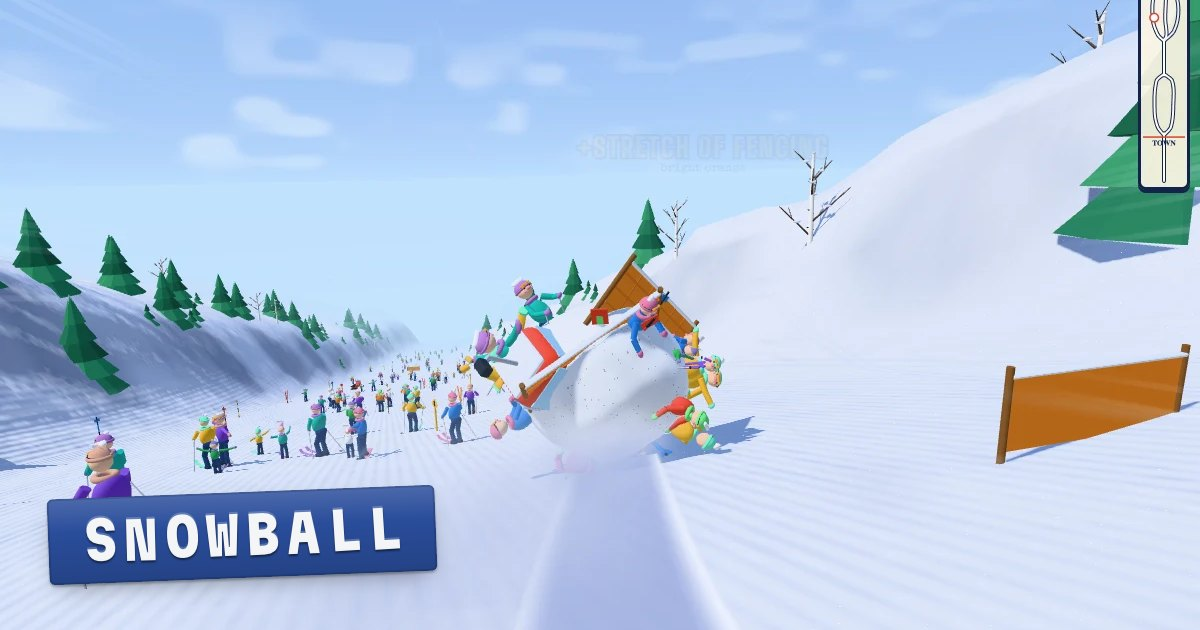
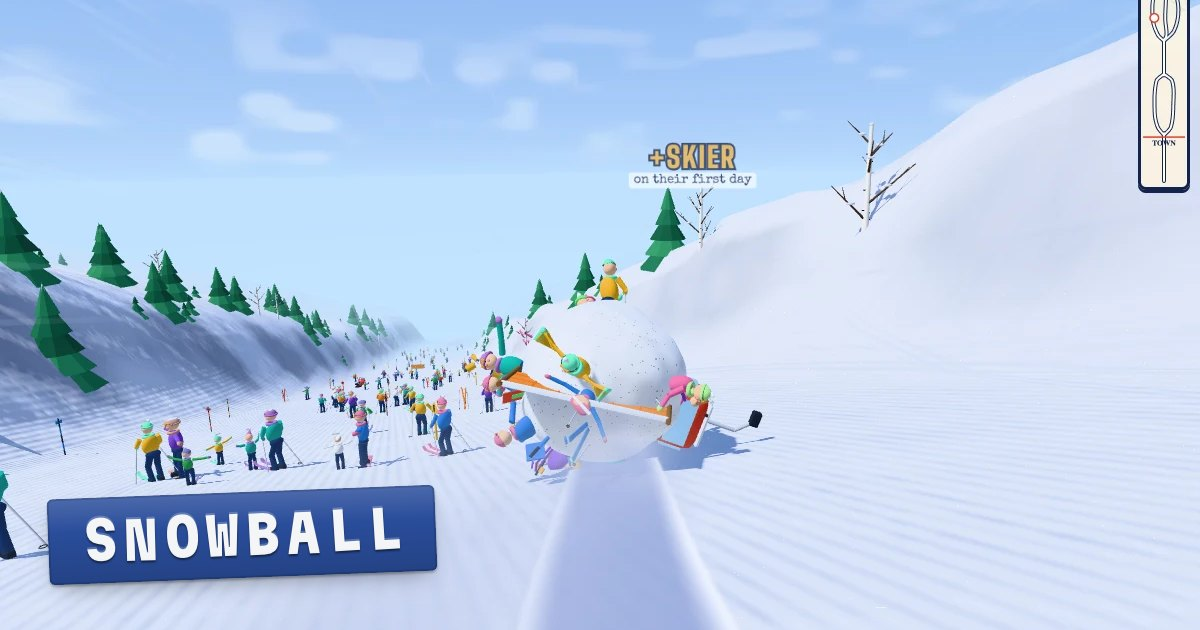
Snowball: playtest fixes, louder sound, shouting passengers and a turntable in Lost & Found
- Things stuck in the ball shout in speech bubbles; big pickups punch the zoom
- Lost & Found: tap anything you've found for a card you can spin by dragging
- Finale pickups no longer bloat the ball into a lopsided blob; town share is weighted by size
- The world freezes while paused; the mountain isn't drawn behind the trail map
- Sound unlocks on iPhone (touchend/click) and starts the band mid-run; louder mix
- Fewer, softer pickup puffs; smaller banners and signs on landscape phones

diff --git a/snowball/main.js b/snowball/main.js
@@ -5,7 +5,7 @@
 // ?fresh (ignore the saved game)
 import { MOUNTAINS, buildCourse } from './course.js';
 import { Run } from './sim.js';
-import { ITEMS, sizeWords } from './items.js';
+import { ITEMS, QUIPS, sizeWords } from './items.js';
 import { View } from './render.js';
 import { Sound } from './sound.js';
 import { makeBot } from './bot.js';
@@ -316,6 +316,12 @@ addEventListener('keyup', e => {
   if (mode === 'title' && (e.code === 'Space' || e.code === 'Enter' || e.code === 'ArrowDown' || e.code === 'KeyS')) endPush();
 });
 addEventListener('blur', () => { keys.clear(); ptr.id = null; stick.classList.remove('on'); if (mode === 'play' && !AUTO) togglePause(true); });
+// iPhones only let sound start from a touch ending or a click; if it comes alive mid-run, start the band too
+for (const ev of ['pointerup', 'touchend', 'click', 'keydown']) addEventListener(ev, () => {
+  const had = !!sound.ctx;
+  sound.start();
+  if (!had && sound.ctx && mode === 'play' && !sound.music.on) sound.music.start(mi * 7 + 3, [60, 62, 57, 59, 61, 60][mi]);
+}, { passive: true });
 const canvas = $('c');
 canvas.addEventListener('pointerdown', e => {
   sound.start();
@@ -485,13 +491,13 @@ function events(t) {
         const it = e.it, info = ITEMS[it.key];
         view.ball.attach(it, e.dir, t);
         // a puff of snow where it went in, sized to it
-        const pr = Math.max(0.15, it.h * it.scale * 0.35);
-        for (let k = 0; k < 3 + Math.min(8, e.frac * 10); k++) fx.puffs.spawn(it.x + (Math.random() - 0.5) * pr, it.y + it.h * 0.4, -it.d + (Math.random() - 0.5) * pr, (Math.random() - 0.5) * 3, 1 + Math.random() * 2, (Math.random() - 0.5) * 3, pr * (0.6 + Math.random() * 0.6), 0.7, 0.8, 2, 1);
+        const pr = Math.min(run.ball.r * 0.5, Math.max(0.1, it.h * 0.25));
+        for (let k = 0; k < 2 + Math.min(6, e.frac * 7); k++) fx.puffs.spawn(it.x + (Math.random() - 0.5) * pr, it.y + it.h * 0.3, -it.d + (Math.random() - 0.5) * pr, (Math.random() - 0.5) * 3, 1 + Math.random() * 2, (Math.random() - 0.5) * 3, pr * (0.5 + Math.random() * 0.5), 0.6, 0.8, 2, 1);
         sound.pickup(e.frac, e.combo);
         if (info.say && (e.frac > 0.25 || Math.random() < 0.5)) sound.say(info.say, 1);
         pop(it, e);
         found[it.key] = (found[it.key] || 0) + 1;
-        if (e.frac > 0.45) { view.shake(0.25 + e.frac * 0.4); view.ball.kick(1.5 + e.frac * 3); }
+        if (e.frac > 0.45) { view.shake(0.25 + e.frac * 0.4); view.ball.kick(1.5 + e.frac * 3); view.punch(-6 - e.frac * 8); }
         if (e.frac > 0.7) { freezeT = 0.07; flash(0.35); }
         const d = $('dia'); d.classList.add('grow'); setTimeout(() => d.classList.remove('grow'), 120);
         if (it.key === 'moose') remark('moose', 'Did you just eat a moose?');
@@ -609,6 +615,7 @@ function startFinale() {
   if (fin) return;
   mode = 'finale';
   fin = { t: 0, stopped: false, vac: null, n: 0, done: false, diaAtFinish: run.ball.r * 2 };
+  if (tut) { tut = null; save.tutDone = true; store(); }
   slowT = 1.4;
   sound.fanfare(run.medal());
   banner('Finish', sizeWords(run.ball.r * 2));
@@ -629,7 +636,7 @@ function finaleTick(dt, t) {
       it.eaten = true;
       const dist = Math.hypot(it.x - b.x, it.d - b.d);
       const rel = [it.x - b.x, it.y + it.h * 0.4 - b.y, it.d - b.d], L = Math.hypot(...rel) || 1;
-      view.ball.attach(it, rel.map(v => v / L), t + 0.3 + k * Math.min(0.05, 3 / cap), 0.5 + Math.min(1.4, dist / 120));
+      view.ball.attach(it, rel.map(v => v / L), t + 0.3 + k * Math.min(0.05, 3 / cap), 0.5 + Math.min(1.4, dist / 120), false);
       found[it.key] = (found[it.key] || 0) + 1;
     });
     run.townEaten += list.length;
@@ -654,8 +661,12 @@ function finaleTick(dt, t) {
 let reportNo = 0;
 function showReport() {
   mode = 'report';
+  sound.music?.stop();
   const m = MOUNTAINS[mi], dia = fin.diaAtFinish, medal = run.medal();
-  const town = run.townEaten / Math.max(1, C.townTotal);
+  // how much of the town came too, weighted by size: the houses count for more than the bins
+  let tw = 0, te = 0;
+  for (const it of C.items) if (it.town && (!it.deco || it.need > 6)) { const w = it.need; tw += w; if (it.eaten) te += w; }
+  const town = te / Math.max(1e-6, tw);
   const prev = save.best[m.id];
   const isBest = !prev || dia > prev.dia;
   save.best[m.id] = { dia: Math.max(dia, prev?.dia || 0), town: Math.max(town, prev?.town || 0), medal: Math.max(medal, prev?.medal || 0) };
@@ -782,10 +793,51 @@ function showGuide() {
     const pic = document.createElement('div'); pic.className = 'pic'; pic.appendChild(c);
     el.prepend(pic);
     el.title = n ? `${it.name}: ${it.lines.join(', ')}` : 'Not found yet';
+    el.tabIndex = 0;
+    el.onclick = () => detail(k);
+    el.onkeydown = e => { if (e.key === 'Enter') detail(k); };
     grid.appendChild(el);
   }
   $('guide').hidden = false;
   guideSlide();
+}
+// one thing up close, on a turntable you can spin by dragging
+function detail(k) {
+  sound.click();
+  const it = ITEMS[k], n = save.found[k] || 0;
+  const wrap = document.createElement('div');
+  wrap.className = 'detail';
+  wrap.innerHTML = `<div class="card"><canvas width="440" height="440"></canvas><div class="hint">${n ? 'Drag to turn it round' : 'Not found yet'}</div>
+    <h2>${n ? it.name : '???'}</h2>
+    <div class="stat"><span>Needs <b>${sizeWords(it.need)}</b></span><span>Picked up <b>${n}</b></span></div>
+    ${n ? `<ul>${it.lines.map(l => `<li>“${l}”</li>`).join('')}</ul>` : '<ul><li>Somewhere on the mountain. Get big enough, then go and find it.</li></ul>'}
+    <button class="btn">Put it back</button></div>`;
+  document.body.appendChild(wrap);
+  const cv = wrap.querySelector('canvas'), g = cv.getContext('2d');
+  const frames = Array.from({ length: 24 }, (_, i) => view.thumb(k, 220, i / 24 * Math.PI * 2));
+  let a = 0, v = 0.6, drag = null;
+  const draw = () => {
+    const f = frames[((Math.round(a / (Math.PI * 2) * 24) % 24) + 24) % 24];
+    g.clearRect(0, 0, 440, 440);
+    if (!n) g.filter = 'brightness(0) opacity(.3)';
+    g.drawImage(f, 0, 0, 440, 440);
+    g.filter = 'none';
+  };
+  let last = performance.now();
+  const spin = now => {
+    if (!wrap.isConnected) return;
+    requestAnimationFrame(spin);
+    const dt = (now - last) / 1000; last = now;
+    if (!drag) { a += v * dt; v += (0.6 - v) * dt; }
+    draw();
+  };
+  requestAnimationFrame(spin);
+  cv.addEventListener('pointerdown', e => { cv.setPointerCapture(e.pointerId); drag = { x: e.clientX, a }; });
+  cv.addEventListener('pointermove', e => { if (!drag) return; const na = drag.a + (e.clientX - drag.x) * 0.02; v = (na - a) * 30; a = na; });
+  cv.addEventListener('pointerup', () => { drag = null; });
+  const close = () => { wrap.remove(); sound.click(); };
+  wrap.querySelector('button').onclick = close;
+  wrap.addEventListener('click', e => { if (e.target === wrap) close(); });
 }
 function guideSlide() {
   const dia = sliderDia(+$('grange').value);
@@ -907,14 +959,42 @@ function tick(dt, t) {
     if (tut) { tut.t += dt; if (LESSONS[tut.step]?.done(tut)) nextLesson(); }
     if (mode === 'finale') finaleTick(dt, t);
     hud(dt);
+    if (!DEMO) bubbles(dt);
     if (sound.ctx) sound.music.set(Math.min(5, Math.floor(Math.log2(run.ball.r * 2 / MOUNTAINS[mi].start) * 1.4)), run.ball.speed);
   }
   if (radioT > 0 && (radioT -= dt) <= 0 && !tut) radio(null);
   if (signT > 0 && (signT -= dt) <= 0) $('sign').classList.remove('on');
   sound.roll(dt, { speed: run.ball.speed, r: run.ball.r, ground: run.ball.ground, surf: run.ball.surf, playing });
   const camMode = mode === 'title' && run.ball.vd < 2 ? 'orbit' : mode === 'finale' && fin && fin.t > 0.8 ? 'finale' : mode === 'report' ? 'finale' : 'play';
-  view.frame(playing ? dt * timeScale : dt, t, run, camMode, dt);
+  // the trail map and its pages cover the screen: no need to draw the mountain behind them
+  if (mode === 'map' && !first) return;
+  const frozen = paused && (mode === 'play' || mode === 'finale');
+  view.frame(playing ? dt * timeScale : frozen ? 0 : dt, t, run, camMode, frozen ? 0 : dt);
   if (first) { first = false; window.toyboxReady?.(); }
+}
+// now and then something stuck in the ball has something to say
+let bubbleT = 4, bubbleOn = 0;
+function bubbles(dt) {
+  const el = $('bubble');
+  if (bubbleOn > 0) {
+    bubbleOn -= dt;
+    const b = run.ball, p = view.project(b.x, b.y + b.r * 1.25, b.d);
+    const right = el.classList.contains('r');
+    el.style.transform = `translate(${p.x + (right ? -el.offsetWidth - 10 : 10) + b.r * 2}px, ${p.y - el.offsetHeight - 14}px)`;
+    if (bubbleOn <= 0) el.hidden = true;
+    return;
+  }
+  if ((bubbleT -= dt) > 0) return;
+  bubbleT = 3.5 + Math.random() * 4.5;
+  const talkers = view.ball.recs.filter(r => r.out > 0 && QUIPS[r.key] && performance.now() / 1000 - r.t0 > 0.6);
+  if (!talkers.length || mode !== 'play') return;
+  const r = talkers[Math.floor(Math.random() * talkers.length)], q = QUIPS[r.key];
+  el.textContent = q[Math.floor(Math.random() * q.length)];
+  el.classList.toggle('r', Math.random() < 0.5);
+  el.hidden = false; bubbleOn = 1.9;
+  el.animate([{ opacity: 0, scale: 0.6 }, { opacity: 1, scale: 1.05, offset: 0.12 }, { opacity: 1, scale: 1, offset: 0.2 }, { opacity: 1, offset: 0.85 }, { opacity: 0 }], { duration: 1900 });
+  const say = ITEMS[r.key].say;
+  if (say) sound.say(say, 0.35);
 }
 function hud() {
   const b = run.ball, dia = b.r * 2;
@@ -967,7 +1047,7 @@ if (DEBUG || AUTO || Q.has('hold')) {
     // step the game by hand (for a hidden browser pane): ms of game time, rendered at the end
     ff(ms, render = true) { const was = hold; hold = false; const n = Math.ceil(ms / 50); for (let i = 0; i < n; i++) tick(0.05, performance.now() / 1000 + i * 0.05); hold = was; if (render) view.frame(0.016, performance.now() / 1000, run, mode === 'finale' || mode === 'report' ? 'finale' : 'play'); },
     start(i, o) { startRun(i, o); }, map: showMap, title: showTitle, guide: showGuide, school: showSchool,
-    get mode() { return mode; },
+    get mode() { return mode; }, get fin() { return fin; }, get paused() { return paused; },
     get save() { return save; }, setSave(o) { save = Object.assign({ best: {}, found: {}, steer: 'drag', sound: 'all' }, o); store(); },
   };
 }

diff --git a/snowball/index.html b/snowball/index.html
@@ -188,6 +188,21 @@
   .stick.on { opacity: 1; }
   .stick i { position: absolute; left: 50%; top: 50%; width: 44px; height: 44px; margin: -22px 0 0 -22px; border-radius: 50%; background: rgba(255, 255, 255, .9); border: 3px solid var(--ink); box-sizing: border-box; }
 
+  /* things stuck in the ball, shouting */
+  .bubble { position: fixed; z-index: 6; left: 0; top: 0; pointer-events: none; background: #fff; border: 3px solid var(--ink); border-radius: 16px; padding: 6px 11px 7px;
+    font: 800 16px/1.1 'Big Shoulders Display', sans-serif; letter-spacing: .03em; color: var(--ink); white-space: nowrap; box-shadow: 0 3px 0 var(--ink); }
+  .bubble::after { content: ''; position: absolute; bottom: -12px; left: 18px; width: 16px; height: 14px; background: #fff; border: 3px solid var(--ink); border-top: 0; border-left: 0; transform: skewX(35deg) rotate(10deg); clip-path: polygon(0 0, 100% 0, 100% 100%); }
+  .bubble.r::after { left: auto; right: 18px; transform: skewX(-35deg) rotate(-10deg); clip-path: polygon(0 0, 100% 0, 0 100%); border-right: 0; border-left: 3px solid var(--ink); }
+
+  /* a found thing, up close: drag to turn it round */
+  .detail { position: fixed; inset: 0; z-index: 25; display: grid; place-items: center; background: rgba(20, 35, 74, .5); padding: 16px; }
+  .detail .card { width: min(360px, 100%); }
+  .detail canvas { width: 220px; height: 220px; display: block; margin: 0 auto 6px; cursor: grab; touch-action: none; border-radius: 12px; background: radial-gradient(circle at 50% 60%, #fff, #d7e7f8 70%); }
+  .detail h2 { font-size: 28px; }
+  .detail .stat { display: flex; justify-content: center; gap: 14px; font: 800 14px/1 'Big Shoulders Display', sans-serif; letter-spacing: .1em; text-transform: uppercase; color: var(--ink2); margin: 4px 0 10px; }
+  .detail .stat b { color: var(--ink); }
+  .detail ul { list-style: none; margin: 0 0 14px; padding: 0; font: 400 15px/1.5 'Special Elite', monospace; color: var(--ink2); }
+  .detail .hint { font: 700 12px/1 'Big Shoulders Display', sans-serif; letter-spacing: .2em; text-transform: uppercase; color: var(--ink2); margin-bottom: 8px; }
   #flash { position: fixed; inset: 0; z-index: 9; pointer-events: none; background: #fff; opacity: 0; }
   #wipe { position: fixed; inset: 0; z-index: 30; pointer-events: none; background: #fff; transform: translateY(-105%); }
   #wipe.on { animation: wipe 1.1s cubic-bezier(.6, 0, .3, 1) both; }
@@ -251,7 +266,7 @@
   .slider input { width: 100%; margin: 10px 0 4px; accent-color: var(--red); height: 28px; touch-action: pan-x; }
   .slider .eats { font: 600 15px/1.35 'Big Shoulders Display', sans-serif; color: var(--ink2); min-height: 2.7em; }
   .grid { display: grid; grid-template-columns: repeat(auto-fill, minmax(104px, 1fr)); gap: 10px; max-width: 900px; margin: 0 auto; }
-  .thing { position: relative; background: #fff; border: 2.5px solid var(--ink); border-radius: 10px; padding: 6px 6px 7px; text-align: center; transition: transform .15s, opacity .2s, filter .2s; }
+  .thing { cursor: pointer; position: relative; background: #fff; border: 2.5px solid var(--ink); border-radius: 10px; padding: 6px 6px 7px; text-align: center; transition: transform .15s, opacity .2s, filter .2s; }
   .thing .pic { border-radius: 6px; background: linear-gradient(#d7e7f8, #fff 80%); }
   .thing canvas { width: 100%; aspect-ratio: 1; display: block; }
   .thing b { display: block; font: 800 14px/1.05 'Big Shoulders Display', sans-serif; letter-spacing: .03em; text-transform: uppercase; margin-top: 5px; min-height: 2.1em; }
@@ -293,6 +308,15 @@
   }
   @media (max-height: 500px) {
     #mini { display: none; }
+    .banner { top: 60%; }
+    .banner b { font-size: 34px; -webkit-text-stroke-width: 4px; }
+    .banner small { font-size: 12px; }
+    .sign { top: calc(var(--safe-t) + 74px); }
+    .board { padding: 4px 9px 5px; min-width: 0; }
+    .board .n { font-size: 15px; }
+    .board .h { font-size: 11px; max-width: 150px; }
+    .radio { width: min(420px, calc(100% - 200px)); padding: 7px 12px 8px 52px; }
+    .radio p { font-size: 14px; min-height: 0; }
     .stage { flex-direction: row; align-items: flex-end; }
     .ticket { position: absolute; right: calc(var(--safe-r) + 10px); bottom: calc(var(--safe-b) + 10px); width: 330px; margin: 0; }
     .ticket h3 { font-size: 24px; }
@@ -358,6 +382,7 @@
 <div class="banner" id="banner" aria-live="polite"><small></small><b></b></div>
 <div class="radio off" id="radio" aria-live="polite"><i class="led"></i><div class="who">Ski Patrol · channel 9</div><p id="radiotext"></p><div class="steps" id="radiosteps"></div></div>
 <div class="stick" id="stick" aria-hidden="true"><i></i></div>
+<div class="bubble" id="bubble" hidden></div>
 <div id="flash"></div>
 
 <section id="pause" class="sheet" hidden aria-label="Paused">

diff --git a/snowball/render.js b/snowball/render.js
@@ -216,6 +216,8 @@ class BallView {
 
   // a dent of extra snow where something went in
   addLump(dir, amp) {
+    // a lump near an old one builds that one up a little, rather than stacking another on top
+    for (const l of this.lumps) if (l.x * dir.x + l.y * dir.y + l.z * dir.z > 0.9) { l.a = Math.min(0.14, Math.max(l.a, amp) + amp * 0.25); this.shapeDirty = true; return; }
     this.lumps.push({ x: dir.x, y: dir.y, z: dir.z, a: amp });
     if (this.lumps.length > 36) { this.lumps.sort((a, b) => b.a - a.a); this.lumps.length = 30; }
     this.shapeDirty = true;
@@ -238,7 +240,7 @@ class BallView {
     this.shapeDirty = false;
   }
 
-  attach(it, dirW, t, dur = 0.26) {
+  attach(it, dirW, t, dur = 0.26, lump = true) {
     const key = it.key, info = ITEMS[key];
     let s = this.stuck.get(key);
     if (!s) {
@@ -266,7 +268,7 @@ class BallView {
     const rec = { it, key, local, from, t0: t, dur, dist, h: h, tint: it.tint, anim: [info.stuck[0] * sc, info.stuck[1] * (0.85 + Math.random() * 0.3), Math.random() * 50] };
     s.recs.push(rec);
     this.recs.push(rec);
-    this.addLump(dir, clamp(0.1 * (it.need / (this.r * 2)), 0.01, 0.12));
+    if (lump) this.addLump(dir, clamp(0.1 * (it.need / (this.r * 2)), 0.01, 0.12));
     return rec;
   }
 
@@ -571,7 +573,7 @@ export class View {
   heightAt(x, z) { return this.C.heightAt(x, -z); }
 
   // a little portrait of one kind of thing, for Lost & Found and Ski School
-  thumb(key, size = 160) {
+  thumb(key, size = 160, yaw = -0.6) {
     if (!this.thumbRig) {
       const sc = new THREE.Scene();
       sc.add(new THREE.HemisphereLight('#cfe3ff', '#ffffff', 1.4));
@@ -580,10 +582,15 @@ export class View {
       rt.texture.colorSpace = THREE.SRGBColorSpace;
       this.thumbRig = { sc, cam: new THREE.PerspectiveCamera(30, 1, 0.01, 1000), rt, buf: new Uint8Array(size * size * 4), size };
     }
+    if (this.thumbRig.size !== size) {
+      this.thumbRig.rt.setSize(size, size);
+      this.thumbRig.buf = new Uint8Array(size * size * 4);
+      this.thumbRig.size = size;
+    }
     const T = this.thumbRig, info = ITEMS[key];
     const mesh = this.makeInstanced(key, 1);
     mesh.count = 1;
-    mesh.setMatrixAt(0, _m.makeRotationY(-0.6));
+    mesh.setMatrixAt(0, _m.makeRotationY(yaw));
     if (mesh.instanceColor) mesh.setColorAt(0, _c.set('#e8412f'));
     T.sc.add(mesh);
     const ext = Math.max(info.w, info.h, info.dp);
@@ -659,7 +666,8 @@ export class View {
     this.cam.up.copy(UP);
     this.cam.lookAt(S.look);
     this.cam.rotateZ(-S.steer * 0.09);
-    this.cam.fov = S.fov;
+    S.punch = (S.punch || 0) * Math.exp(-dt * 7);
+    this.cam.fov = S.fov + S.punch;
     this.cam.near = Math.max(0.04, r * 0.08);
     this.cam.far = 260 + r * 90;
     this.cam.updateProjectionMatrix();
@@ -681,6 +689,8 @@ export class View {
       p.x = lerp(p.x, b.x, 0.3); p.z = lerp(p.z, -b.d, 0.3); p.y = lerp(p.y, b.y + b.r, 0.2);
     }
   }
+
+  punch(a) { this.camState.punch = (this.camState.punch || 0) + a; }
 
   shake(a) { this.camState.shake = Math.min(1.2, Math.max(this.camState.shake, a)); }
 

diff --git a/snowball/items.js b/snowball/items.js
@@ -144,6 +144,30 @@ for (const [key, it] of Object.entries(ITEMS)) {
   it.stuck = [a[2] * d[1], a[3]];
 }
 
+// what the things stuck in the ball shout as it rolls
+export const QUIPS = {
+  skier: ['Wheeee!', 'My skis!', 'Is this the lift?', 'I paid for a day pass!', 'Best run ever!', 'Put me down!', 'Which way is down?', 'I can see my chalet!', 'Not again!'],
+  racer: ['My time!', 'Is this legal?', 'Personal best!'],
+  boarder: ['Gnarly!', 'Duuude.', 'Totally meant that.', 'Sick line!'],
+  climber: ['Summit postponed!', 'I had a rope!', 'Wrong way!'],
+  kid: ['Again! Again!', 'Mum!!', 'Faster!', 'I’m a snowball!', 'Best day EVER'],
+  walker: ['I was getting bread!', 'Excuse me!', 'Mind my shopping!', 'My hat!', 'Is this the bus?'],
+  skater: ['Triple axel!', 'Ta-daa!', 'Dizzy...'],
+  moose: ['Hrrnk.', '...', '(confused moose noises)'],
+  yeti: ['RAAARGH', 'Hello, again', 'No photos!'],
+  dog: ['Woof!', 'Brandy, anyone?', 'Who’s a good snowball?'],
+  bear: ['Five more minutes...', 'GRRR'],
+  deer: ['!!', 'Not the antlers!'],
+  reindeer: ['Ho ho... oh no', 'Not the nose!'],
+  snowman: ['Family reunion!', 'Finally, a body!'],
+  snowman_s: ['Mum?', 'Hello, big snowman!'],
+  hottub: ['Shut the door!', 'Party in here!'],
+  goat: ['Meh.', 'Unbothered.'],
+  car: ['BEEP BEEP', 'My insurance!'],
+  bus: ['Next stop: everywhere', 'Fares please!'],
+  gondola: ['We’re still in here!', 'Lovely view!'],
+};
+
 // sizes in words, for the size readout and the "big enough for…" calls
 export function sizeWords(dia) {
   if (dia < 1) return Math.round(dia * 100) + ' cm';

diff --git a/snowball/sound.js b/snowball/sound.js
@@ -17,9 +17,9 @@ export class Sound {
 
   init(ctx) {
     this.ctx = ctx;
-    const comp = ctx.createDynamicsCompressor(); comp.threshold.value = -16; comp.ratio.value = 4; comp.attack.value = 0.004; comp.release.value = 0.2;
+    const comp = ctx.createDynamicsCompressor(); comp.threshold.value = -12; comp.ratio.value = 5; comp.attack.value = 0.004; comp.release.value = 0.2;
     comp.connect(ctx.destination);
-    this.master = ctx.createGain(); this.master.gain.value = 0.9; this.master.connect(comp);
+    this.master = ctx.createGain(); this.master.gain.value = 1.6; this.master.connect(comp);
     this.sfx = ctx.createGain(); this.sfx.gain.value = this.sfxOn ? 1 : 0; this.sfx.connect(this.master);
     this.mus = ctx.createGain(); this.mus.gain.value = this.musicOn && this.sfxOn ? 0.5 : 0; this.mus.connect(this.master);
     const len = ctx.sampleRate * 2;

diff --git a/snowball/fx.js b/snowball/fx.js
@@ -115,7 +115,7 @@ class Puffs extends Billboards {
       this.pos[w * 3] = p[o]; this.pos[w * 3 + 1] = p[o + 1]; this.pos[w * 3 + 2] = p[o + 2];
       this.vel[w * 3] = p[o + 3]; this.vel[w * 3 + 1] = p[o + 4]; this.vel[w * 3 + 2] = p[o + 5];
       this.sa[w * 2] = p[o + 6];
-      this.sa[w * 2 + 1] = Math.min(1, t * 8) * (1 - t) ** 1.4 * 0.9;
+      this.sa[w * 2 + 1] = Math.min(1, t * 8) * (1 - t) ** 1.4 * 0.7;
       w++;
     }
     this.n = w;
